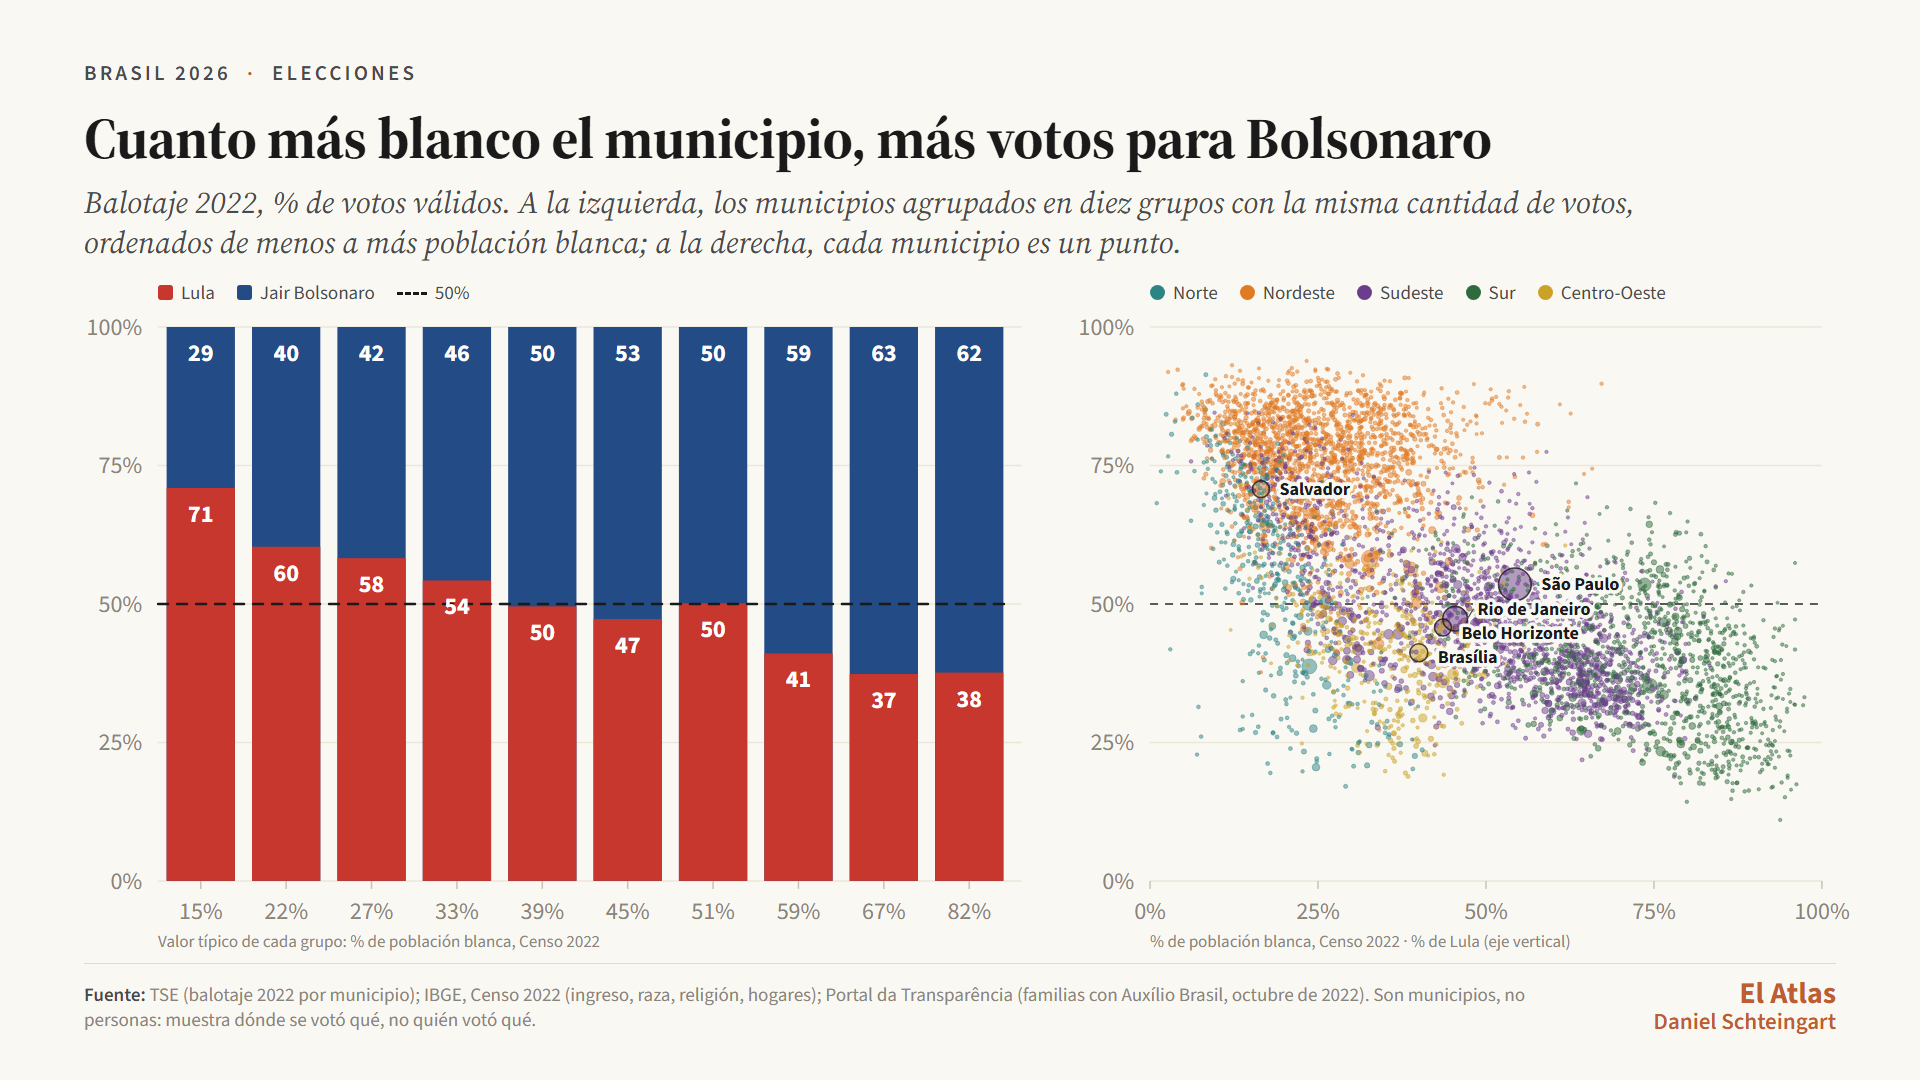
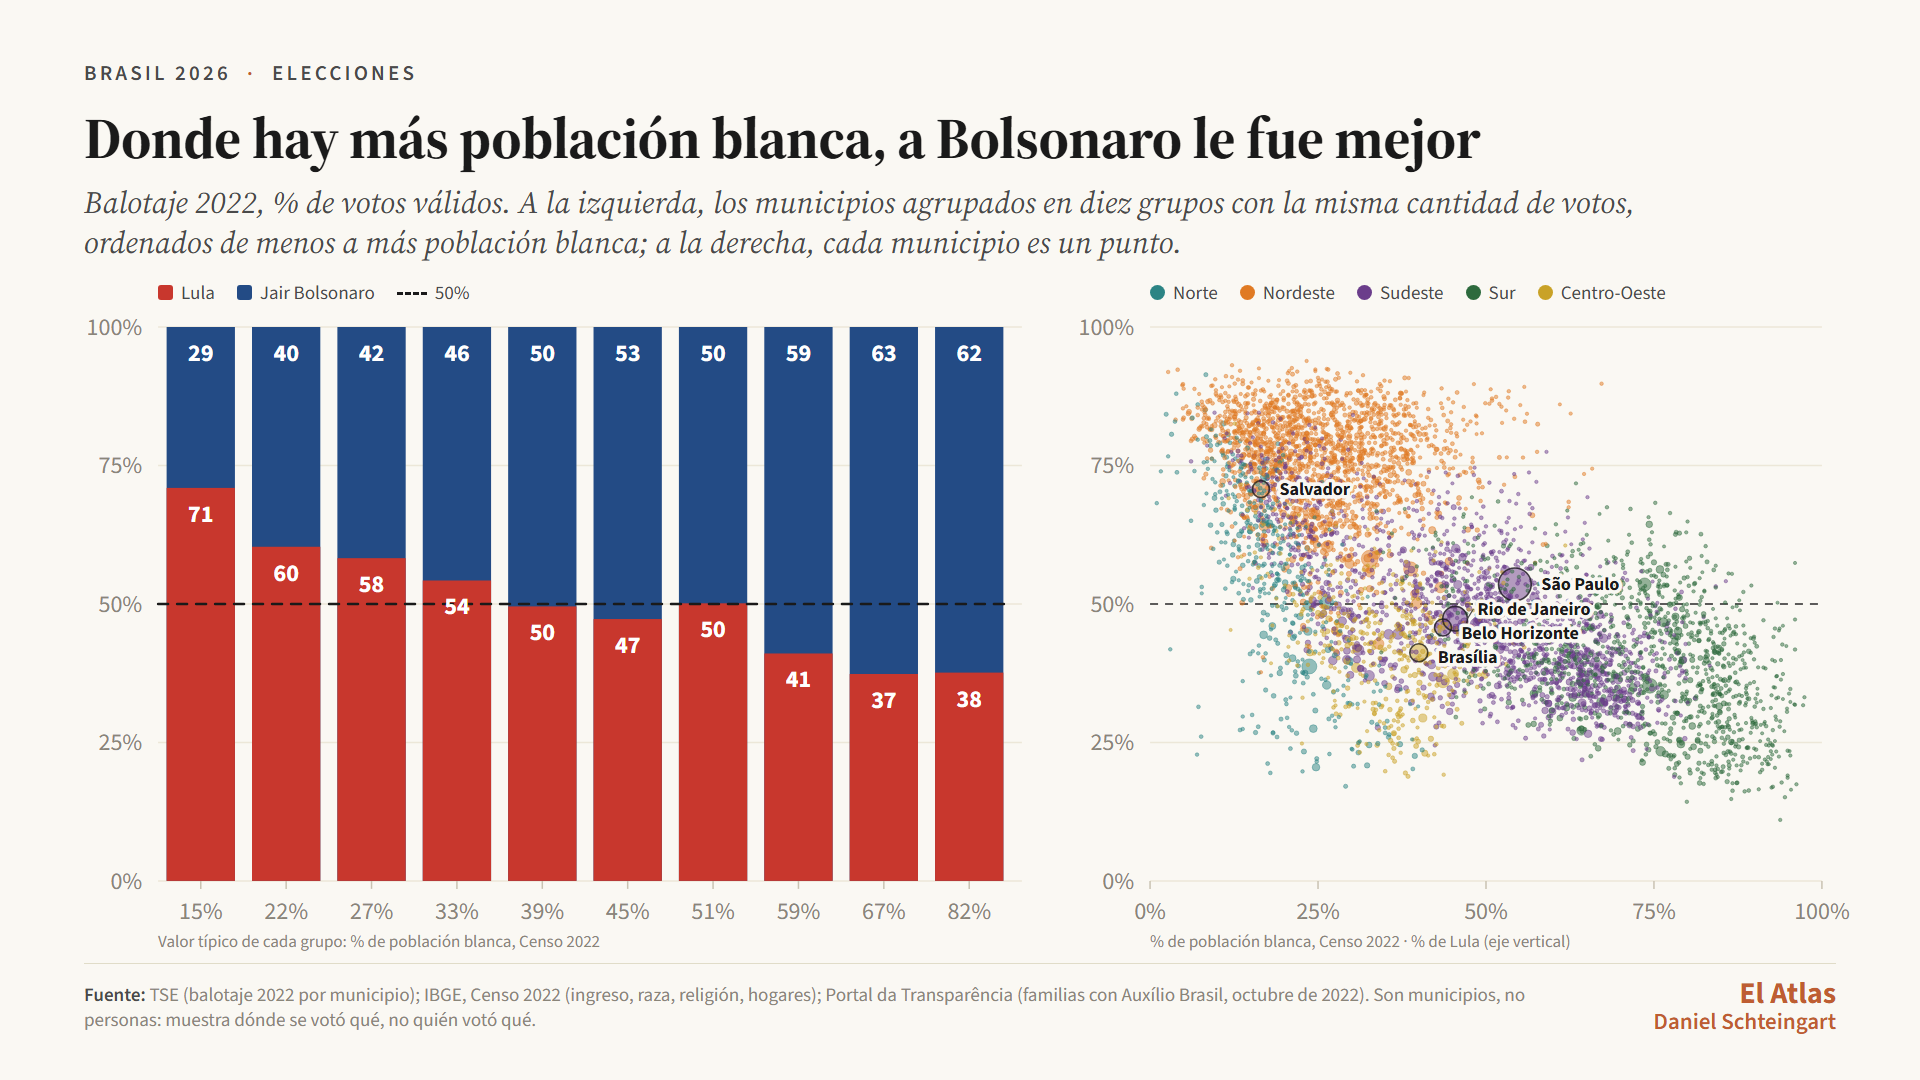
Especial Elecciones Brasil: título de raza y voto sin "más blanco el municipio"
"Donde hay más población blanca, a Bolsonaro le fue mejor" (y en inglés
"Where more of the population is white, Bolsonaro did better"), con la
misma construcción que el de religión; "% blancos" pasa a "% de población
blanca". PNG de respaldo de esa vista regenerado.

Changed region(s): [[0.0312, 0.0917, 0.7812, 0.1528]]

diff --git a/brasil-2026/js/placas.js b/brasil-2026/js/placas.js
@@ -252,7 +252,7 @@
     ingreso: { i: 1, nm: T('Ingreso', 'Income'), log: true, eje: T('Ingreso mensual por persona del hogar (mediana, en reales), Censo 2022', 'Monthly household income per person (median, reais), 2022 Census'),
       orden: T('de menor a mayor ingreso', 'from lowest to highest income'), corto: v => num(Math.round(v)), largo: v => 'R$ ' + num(Math.round(v)), ticks: [250, 500, 1000, 2000] },
     raza: { i: 2, nm: T('Raza', 'Race'), eje: T('% de población blanca, Censo 2022', '% white population, 2022 Census'),
-      orden: T('de menos a más población blanca', 'from least to most white population'), corto: v => fmt(v, 0) + '%', largo: v => fmt(v, 1) + T('% blancos', '% white'), ticks: [0, 25, 50, 75, 100] },
+      orden: T('de menos a más población blanca', 'from least to most white population'), corto: v => fmt(v, 0) + '%', largo: v => fmt(v, 1) + T('% de población blanca', '% white population'), ticks: [0, 25, 50, 75, 100] },
     religion: { i: 3, nm: T('Religión', 'Religion'), eje: T('% de evangélicos (10 años y más), Censo 2022', '% evangelicals (aged 10+), 2022 Census'),
       orden: T('de menos a más evangélicos', 'from fewest to most evangelicals'), corto: v => fmt(v, 0) + '%', largo: v => fmt(v, 1) + T('% evangélicos', '% evangelicals'), ticks: [0, 25, 50, 75, 100] },
   };
@@ -293,7 +293,7 @@
     const G = gruposSocio(k);
     if (k === 'bf') return T('Cuanto más Bolsa Família, más votos para Lula', 'The more Bolsa Família, the more votes for Lula');
     if (k === 'ingreso') return T(`En los municipios más pobres, Lula sacó ${fmt(G[0].pl, 0)}% de los votos`, `In the poorest municipalities, Lula won ${fmt(G[0].pl, 0)}% of the vote`);
-    if (k === 'raza') return T('Cuanto más blanco el municipio, más votos para Bolsonaro', 'The whiter the municipality, the more votes for Bolsonaro');
+    if (k === 'raza') return T('Donde hay más población blanca, a Bolsonaro le fue mejor', 'Where more of the population is white, Bolsonaro did better');
     return T('Donde hay más evangélicos, a Lula le fue peor', 'Where there are more evangelicals, Lula did worse');
   }
   function bajadaSocio(k) {
@@ -474,7 +474,7 @@
   const FACTORES = [
     { nm: T('Bolsa Família', 'Bolsa Família'), alto: T('hay más Bolsa Família', 'there is more Bolsa Família'), x: f => (f.s ? f.s[0] : null) },
     { nm: T('Ingreso', 'Income'), alto: T('el ingreso es más alto', 'income is higher'), x: f => (f.s && f.s[1] ? Math.log(f.s[1]) : null) },
-    { nm: T('% blancos', '% white'), alto: T('hay más población blanca', 'the population is whiter'), x: f => (f.s ? f.s[2] : null) },
+    { nm: T('% población blanca', '% white population'), alto: T('hay más población blanca', 'more of the population is white'), x: f => (f.s ? f.s[2] : null) },
     { nm: T('% evangélicos', '% evangelicals'), alto: T('hay más evangélicos', 'there are more evangelicals'), x: f => (f.s ? f.s[3] : null) },
     { nm: T('Voto a Lula en 2022', 'Lula vote in 2022'), alto: T('Lula había sacado más en 2022', 'Lula did better in 2022'), x: f => f.l22 },
     { nm: T('Tamaño del municipio', 'Municipality size'), alto: T('el municipio es más grande', 'the municipality is bigger'), x: f => Math.log(Math.max(f.apt, 1)) },

diff --git a/brasil-2026/index.html b/brasil-2026/index.html
@@ -26,7 +26,7 @@
   // Carga en orden y reintenta si un archivo falla (algunos antivirus cortan descargas locales).
   // estilos.js va primero: inyecta las tipografías y el CSS (los reusa la descarga en PNG).
   (function () {
-    const V = 41;
+    const V = 43;
     const archivos = ['js/estilos.js', 'data/series.js', 'data/encuestas.js', 'data/elecciones-2022.js', 'data/socio.js', 'js/geo-br.js', 'js/charts.js', 'js/exportar.js', 'js/mapa.js', 'js/placas.js'];
     function cargar(i, intento) {
       if (i >= archivos.length) return;
